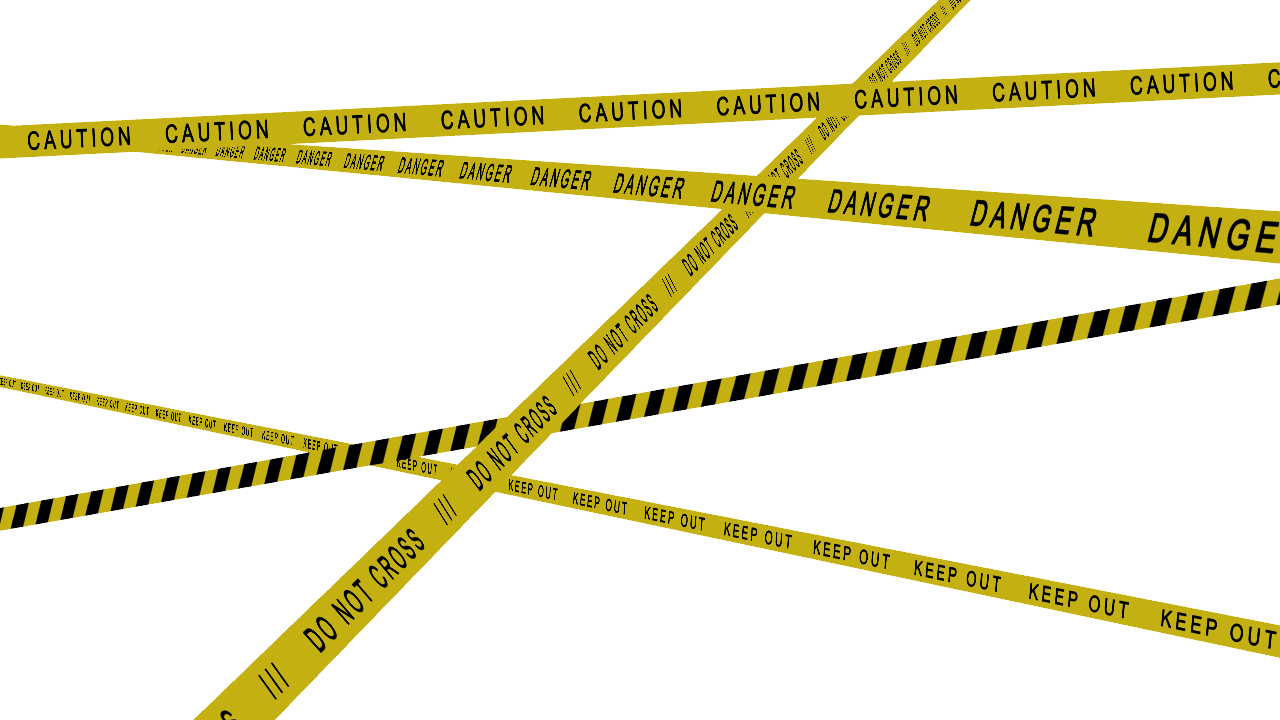
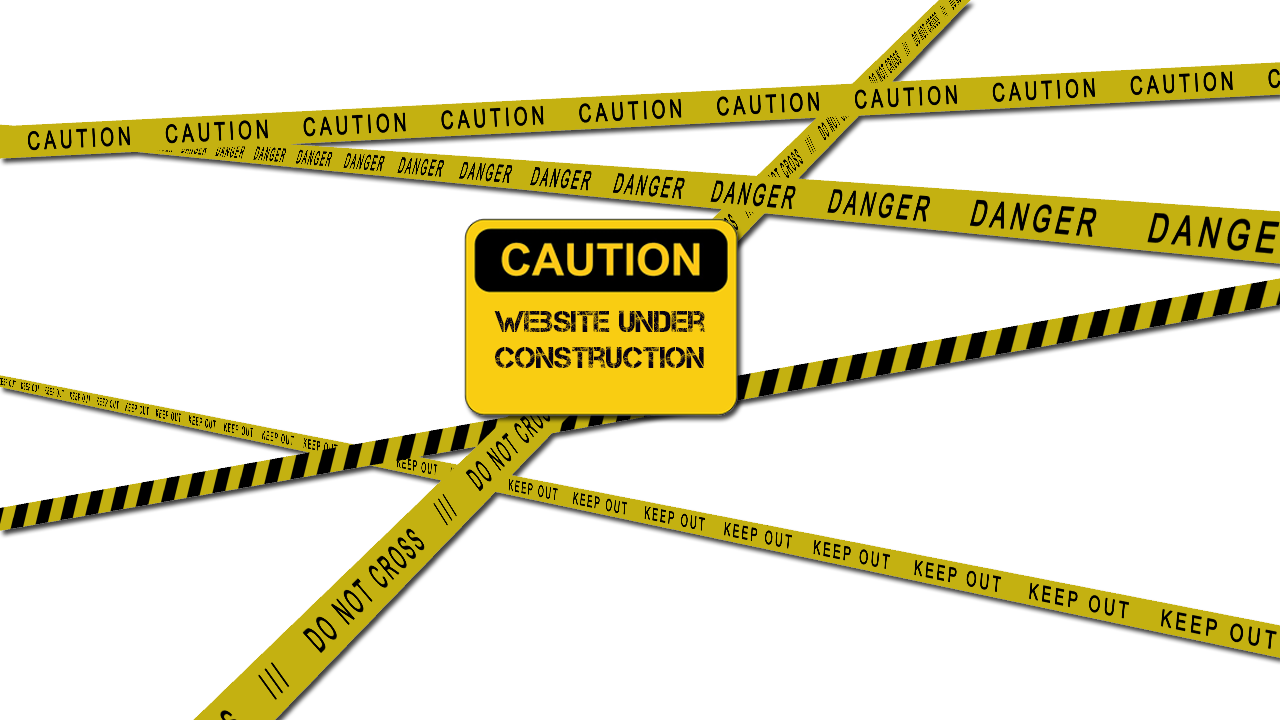
added construction sign

diff --git a/css/bootstrap.css b/css/bootstrap.css
@@ -10,6 +10,20 @@
 @import url(http://fonts.googleapis.com/css?family=Karla);
 @import url(http://fonts.googleapis.com/css?family=Ubuntu:300);
 
+.caution-banner{
+  display: block;
+  position: fixed;
+  right: 0;
+  left: 0;
+  z-index: 1030;
+  margin-bottom: 0;
+}
+
+.caution-banner img
+{
+  width: 100%;
+}
+
 .end{
   margin-right: auto;
   margin-left: auto;
@@ -44,7 +58,6 @@ html{
 
 input{
   font-family:'Helvetica Neue', Helvetica, Arial, sans-serif, Ubuntu;
-
   border:0;
   border-bottom:1px solid #ff5407;
   width:100%;
@@ -54,11 +67,11 @@ input{
   display: block;
   font-weight: bold;
   height: 60px;
+  box-shadow: none;
   /*margin-bottom: 10px;
   margin-left: 0px;
   margin-right: 0px;
   margin-top: 10px;*/
-  topext-rendering: optimizelegibility;
   text-transform:uppercase;
 }
 
@@ -1314,6 +1327,8 @@ textarea,
 input[type="text"] {
   display: inline;
   font-size: 38px;
+  background: #DAE6E8;
+  box-shadow:none;
 }
 
 input,
@@ -1371,9 +1386,9 @@ input[type="search"]:focus,
 input[type="tel"]:focus,
 input[type="color"]:focus,
 .uneditable-input:focus {
-  border-color: rgba(82, 168, 236, 0.8);
+ /* border-color: rgba(82, 168, 236, 0.8);*/
   outline: 0;
-  outline: thin dotted \9;
+  /*outline: thin dotted \9;*/
   display: inline;
   /* IE6-9 */
 

diff --git a/index.html b/index.html
@@ -7,6 +7,11 @@
 		<!--script src="js/login.js"></script>-->
 	</head>
 	<body>
+		<!--Caution sign cause site is not up cause i'm lazy cause i'm tired right now-->
+		<div class="caution-banner">
+		<img src="./img/underConstruction.png">
+			
+		</div>
 		<!--First Chunk-->
 		<!--Hello! I'm Josh stuffs and transition to middle-->
 		<div class="outer-background">
